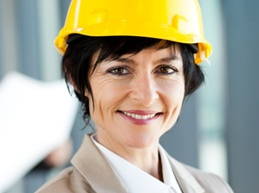
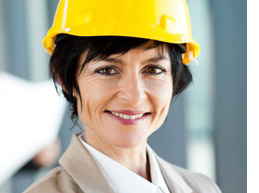
updated stock images for "Who it's For" section

diff --git a/_includes/home/case-studies.html b/_includes/home/case-studies.html
@@ -6,7 +6,7 @@
         <h2>Benefits for Constituents</h2>
           <div class="benefits row">
               <div class="col-md-4">             
-                <div class="circular-image"><img src="/images/stock/159494420.jpg" /></div>
+                <div class="circular-image"><img src="/images/stock/10377851.jpg" /></div>
               </div>
               <div class="summary col-md-8">
                 <div class="title"><strong>Residents &amp; Local Orgs</strong></div>
@@ -29,7 +29,7 @@
           
           <div class="benefits row">
               <div class="col-md-4">
-                <div class="circular-image"><img src="/images/stock/104071613.jpg" /></div>
+                <div class="circular-image"><img src="/images/stock/20146003.jpg" /></div>
               </div>
               <div class="summary col-md-8">
                 <div class="title"><strong>City Leadership</strong></div>
